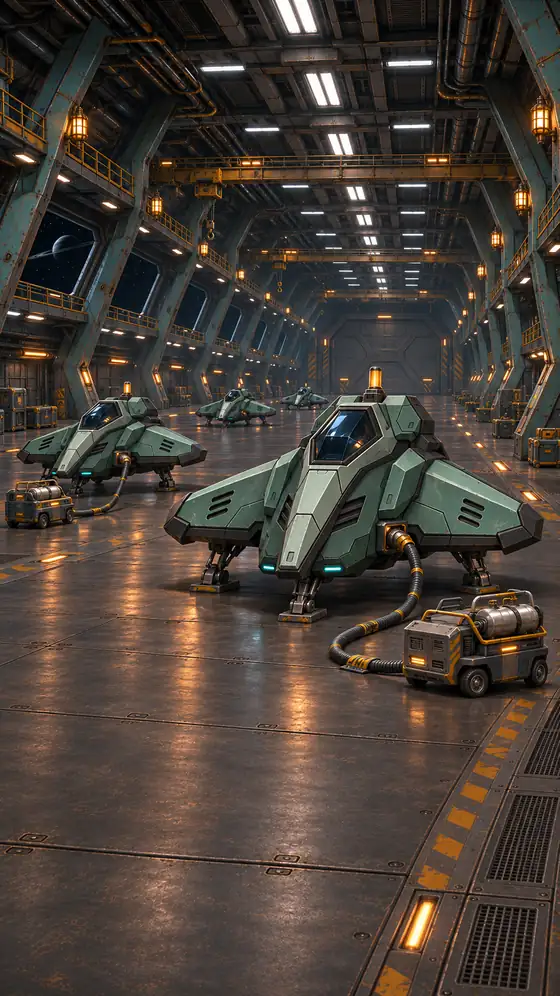
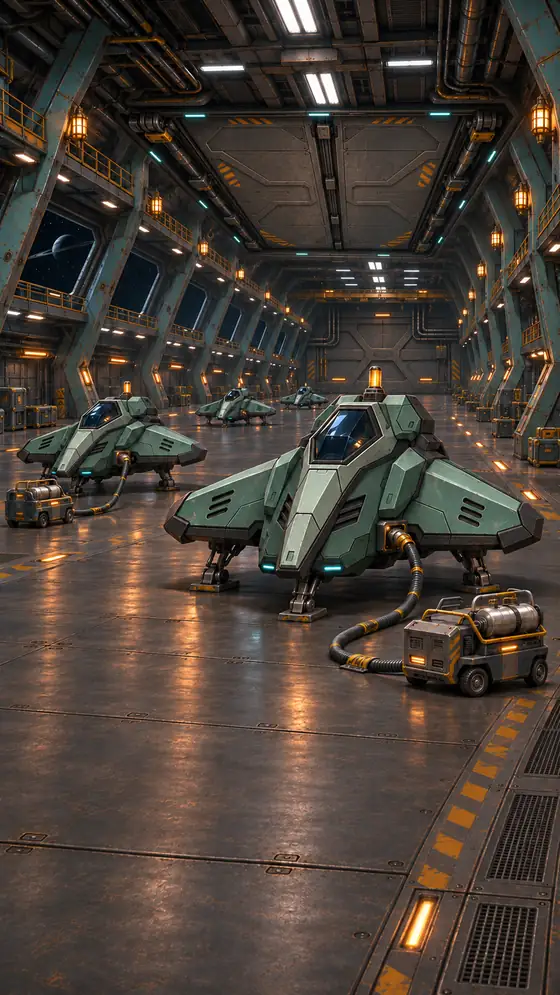
Move the Pegasus refuelling bay launch hatch overhead

diff --git a/carrier-crew.html b/carrier-crew.html
@@ -6,7 +6,7 @@
 <meta name="theme-color" content="#08131a">
 <title>Crew Quarters · Rift Runner</title>
 <link rel="icon" type="image/png" href="./rift-192.png">
-<link rel="stylesheet" href="./carrier-crew.css?v=182">
+<link rel="stylesheet" href="./carrier-crew.css?v=183">
 <script src="./pilot-missions.js?v=114" defer></script>
 </head>
 <body>
@@ -47,7 +47,7 @@
    <button class="control enemy-board" id="crew-enemies" type="button" aria-haspopup="dialog" aria-controls="crew-enemy-list">Enemy Ships</button>
   </section>
   <section class="room" data-room="Refuelling Bay" aria-label="Refuelling Bay" hidden>
-   <img class="room-refuelling-art" src="./crew-refuelling-bay.webp?v=182" loading="lazy" decoding="async" alt="Ground-level view of the Pegasus hangar, with several sea-green Rift-4 fighters parked and connected to refuelling carts.">
+   <img class="room-refuelling-art" src="./crew-refuelling-bay.webp?v=183" loading="lazy" decoding="async" alt="Ground-level view of the Pegasus hangar, with several sea-green Rift-4 fighters parked and connected to refuelling carts beneath an overhead launch hatch.">
   </section>
  </div>
  <img class="crew-pilot-portrait" id="crew-pilot-portrait" width="72" height="72" decoding="async" draggable="false" alt="" hidden>

diff --git a/carrier-crew.css b/carrier-crew.css
@@ -11,8 +11,15 @@ h1,h2,p,dl,dd{margin:0}
 .carrier-link{pointer-events:auto}
 .quarters-header h1{font-size:clamp(1.3rem,5vw,2.5rem);letter-spacing:-.03em;text-shadow:0 1px 8px #03080b}
 .room-stage,.room{position:absolute;inset:0;overflow:hidden}
-.room-refuelling-art{position:absolute;inset:0;display:block;width:100%;height:100%;object-fit:cover;object-position:center 60%}
-@media(orientation:portrait){.room-refuelling-art{object-position:center 52%}}
+.room-refuelling-art{position:absolute;inset:0;display:block;width:100%;height:100%;object-fit:cover;object-position:center 38%}
+/* Keep both the ceiling hatch and the deck in frame on wider screens. */
+@media(min-aspect-ratio:3/4){
+ .room[data-room="Refuelling Bay"]::before{
+  content:"";position:absolute;inset:-28px;background:#10191c url("./crew-refuelling-bay.webp?v=183") center 49%/cover no-repeat;
+  filter:blur(24px) brightness(.48);pointer-events:none
+ }
+ .room-refuelling-art{object-fit:contain;object-position:center}
+}
 .room-upper{position:absolute;top:50%;left:50%;width:max(100vw,177.6833vh);width:max(100vw,177.6833dvh);transform:translate(-50%,-50%)}
 .room-upper img{display:block;width:100%;height:auto}
 .room-lower{display:none}
